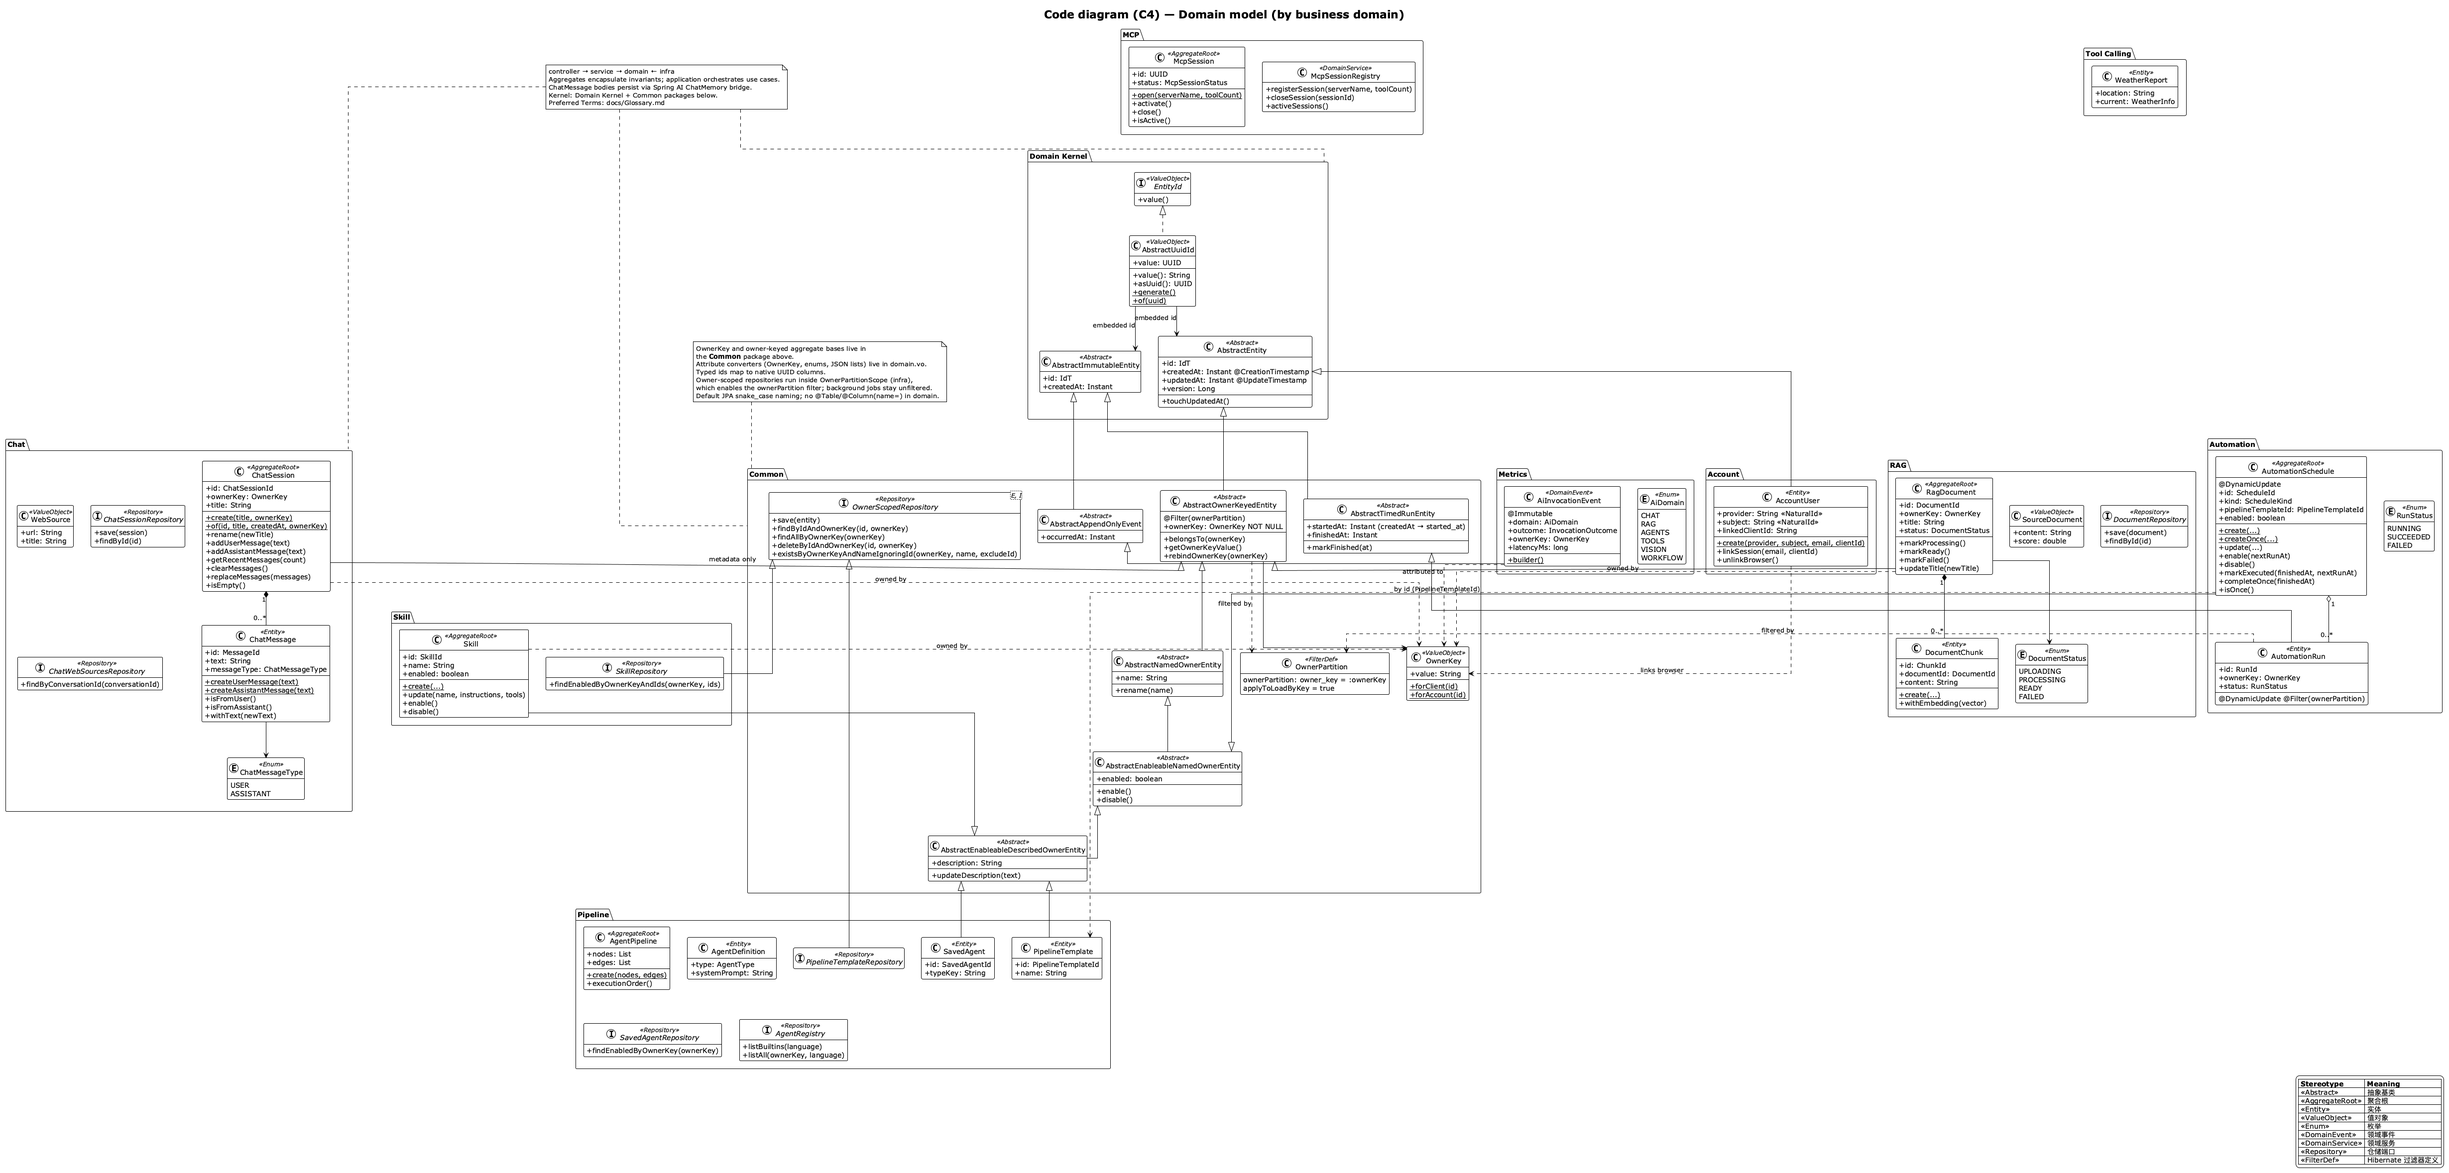
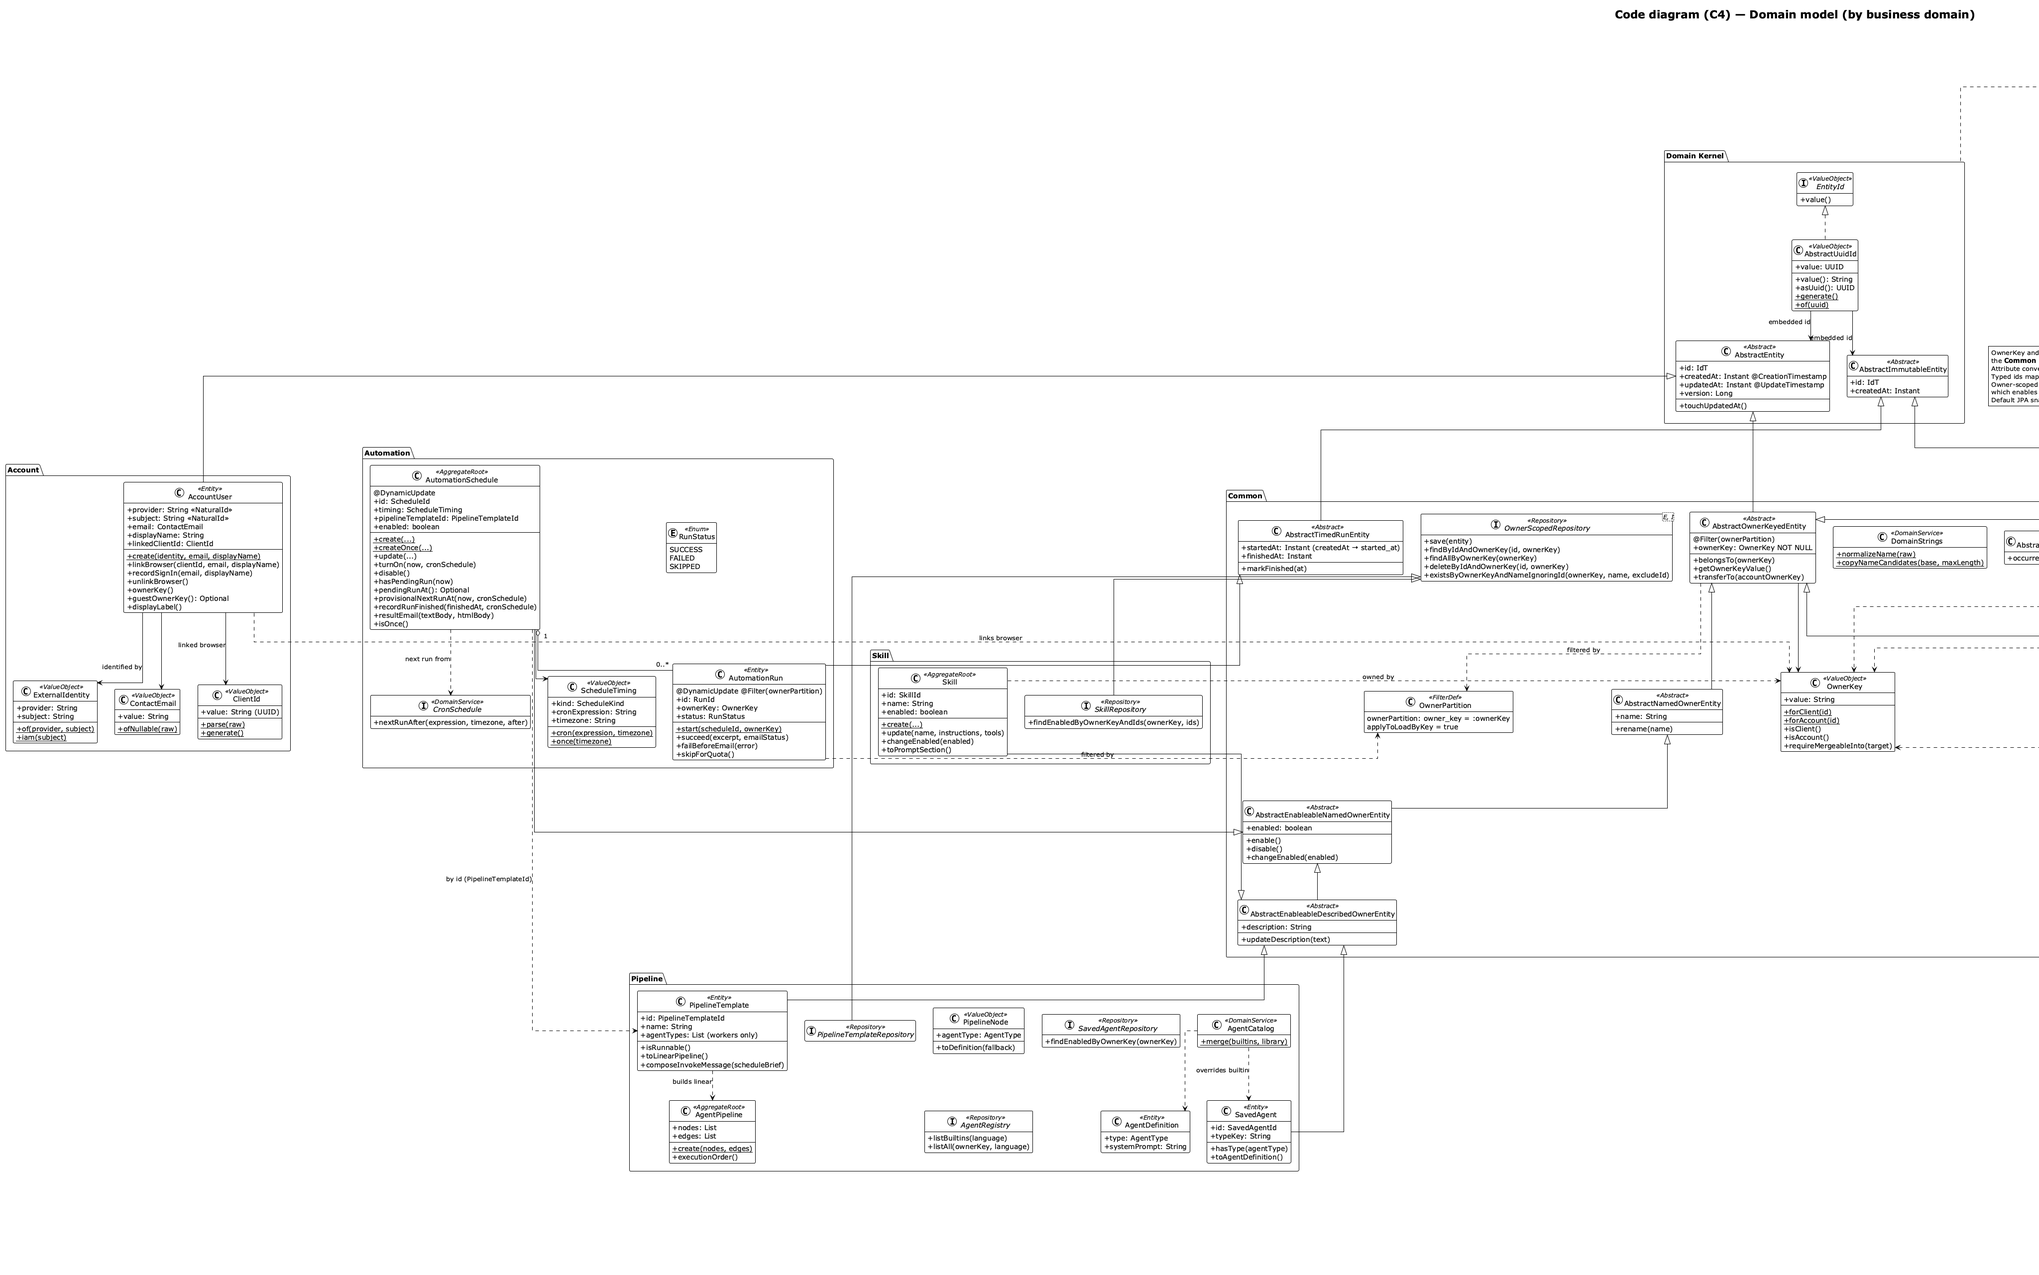
Describe the rich domain model before moving rules (#617)
Business rules for sessions, documents, schedules, accounts, quotas
and metrics are spread across services and adapters. The Glossary
and the domain model diagram now name the value objects and entity
methods that the following changes move those rules into, so code
and docs use the same words.

References:

- https://c4model.com/diagrams/code

diff --git a/ai/docs/Glossary.md b/ai/docs/Glossary.md
@@ -125,14 +125,14 @@ Shared persistence and aggregate bases. Feature modules inherit these types inst
 | Abstract Entity | 可变实体基类 | JPA `@MappedSuperclass` with id, audit timestamps, optimistic `@Version` | Mapped Superclass | `AbstractEntity<IdT>` | Subclasses call `touchUpdatedAt()` on mutation |
 | Abstract Immutable | 不可变记录基类 | Append-only rows: id + `created_at` only | Mapped Superclass | `AbstractImmutableEntity<IdT>` | Used for event streams |
 | Base JPA Config | JPA 内核配置 | `@EnableJpaAuditing`, repository scan | Configuration | `JpaRepositoriesConfig` | Replaces per-module duplicate JPA config |
-| Owner-Keyed Entity | 归属键实体基类 | Rows partitioned by `owner_key` | Mapped Superclass | `AbstractOwnerKeyedEntity<IdT>` | `belongsTo`, `getOwnerKeyValue`, `rebindOwnerKey` |
+| Owner-Keyed Entity | 归属键实体基类 | Rows partitioned by `owner_key` | Mapped Superclass | `AbstractOwnerKeyedEntity<IdT>` | `belongsTo`, `getOwnerKeyValue`, `transferTo` (guest `c:` → account `u:` only, via `OwnerKey.requireMergeableInto`) |
 | Owner Partition Filter | 归属分区过滤器 | Hibernate filter limiting queries and loads by id to one Owner Key | Persistence | `ownerPartition` (`OwnerPartition`), `OwnerPartitionScope` | Enabled per adapter call inside a transaction; background jobs stay unfiltered |
 | Named Owner Entity | 命名归属实体 | Owner-keyed row with validated `name` | Mapped Superclass | `AbstractNamedOwnerEntity<IdT>` | Max 120 chars via `DomainStrings` |
-| Enableable Entity | 可启用实体 | Named owner row with an `enabled` flag; the described variant adds `description` | Mapped Superclass | `AbstractEnableableNamedOwnerEntity<IdT>`, `AbstractEnableableDescribedOwnerEntity<IdT>` | `enable()` / `disable()`; schedules use the named variant |
+| Enableable Entity | 可启用实体 | Named owner row with an `enabled` flag; the described variant adds `description` | Mapped Superclass | `AbstractEnableableNamedOwnerEntity<IdT>`, `AbstractEnableableDescribedOwnerEntity<IdT>` | `enable()` / `disable()` / `changeEnabled(boolean)`; schedules use the named variant and re-arm through `turnOn` |
 | Timed Run Entity | 定时运行记录 | `started_at` / `finished_at` without `updated_at` | Mapped Superclass | `AbstractTimedRunEntity<IdT>` | Extends Abstract Immutable (`createdAt` → `started_at`); automation runs |
 | Append-Only Event | 追加事件 | Immutable AI invocation / audit event | Mapped Superclass | `AbstractAppendOnlyEvent<IdT>` | Maps `createdAt` → `occurred_at` |
 | Owner-Scoped Repository | 归属仓储契约 | Owner-scoped CRUD contract | Repository | `OwnerScopedRepository<E, I>` | `findByIdAndOwnerKey`, etc. |
-| Domain Strings | 域字符串校验 | Shared name/description normalization | Utility | `DomainStrings` | Replaces per-module copy-paste |
+| Domain Strings | 域字符串校验 | Shared name/description normalization and copy-name candidates | Utility | `DomainStrings` | `normalizeName` before uniqueness checks; `copyNameCandidates` stays within the 120-char limit |
 | Owner Keys | 归属键工具 | Parse and build `c:` / `u:` keys | Utility | `OwnerKeys` | Replaces duplicated `requireClientId` |
 
 **Layer packages (per feature module):** `controller` → `service` → `domain` ← `infra` (+ `mapper` when needed). Legacy names `web`, `application`, `infrastructure` are forbidden in new code.
@@ -145,16 +145,26 @@ Shared persistence and aggregate bases. Feature modules inherit these types inst
 | Preferred Term (English) | 中文   | Definition                                            | Type              | Code Mapping                                  | Notes                                  |
 | ------------------------ | ---- | ----------------------------------------------------- | ----------------- | --------------------------------------------- | -------------------------------------- |
 | Chat Session             | 会话   | Multi-turn conversation container between user and AI | Aggregate Root    | `ChatSession`                                 | Default title: "New Chat"; owned by Owner Key |
+| Session Title            | 会话标题 | Normalized session name: trimmed, whitespace collapsed, quotes stripped, max 100 chars | Value Object      | `SessionTitle`                                | `SessionTitle.DEFAULT` = "New Chat"; generated once after the first exchange |
+| Session Activity         | 会话活跃 | Last time a new exchange happened in the session        | Domain Behavior   | `ChatSession.recordExchange`, `isInactiveSince` | Restoring stored messages on read is not activity; drives Data Retention |
 | Client Identity          | 客户端身份 | Anonymous browser identity cookie used to resolve Owner Key | Technical         | `ClientIdentity`, `ea_cid` / `__Host-ea_cid` | Server-issued; not stored in localStorage |
 | Owner Key                | 数据归属键 | Hybrid partition key: guest `c:{clientId}` or account `u:{accountUserId}` | Value Object      | `OwnerKey`, column `owner_key` | Resolved by `CurrentOwnerResolver`; merged on OAuth login |
 | Unowned                  | 无主数据     | Owner Key `c:legacy-orphan` for rows without a visitor (e.g. session-less metrics) | Value Object      | `OwnerKey.UNOWNED` | Never matches a live visitor (cookie client ids are UUIDs); `owner_key` is NOT NULL everywhere |
 | Privacy Erasure          | 隐私清除 | Delete all durable rows for current Owner Key / rotate identity cookie | Use Case          | `OwnerErasureService`, `PrivacyController` | GDPR-style right to erasure across owner-scoped stores |
 | Privacy Consent          | 隐私同意 | Browser preference for optional analytics (RUM / LaunchDarkly) | Technical         | `PrivacyConsentService`, `explore-ai.privacy.consent` | Stored in localStorage; necessary Client Identity cookie is separate |
 | Data Retention           | 数据留存 | Timed purge of inactive sessions and aged metrics events | Job               | `ChatDataRetentionJob`, `app.data-retention` | Default 90d aligned with Client Identity cookie |
-| Plan Quota               | 套餐配额 | Daily hard limit on billable AI API calls for Free/Pro plan | Technical         | `billing.web.UsageQuotaFilter`, `app.billing` | Returns `429` / `QUOTA_EXCEEDED`; distinct from short-window rate limit |
+| Plan Quota               | 套餐配额 | Daily hard limit on billable AI API calls for Free/Pro plan | Technical         | `UsageQuotaFilter`, `DailyUsageQuotaService`, `app.billing` | Returns `429` / `QUOTA_EXCEEDED`; distinct from short-window rate limit |
+| Plan                     | 套餐   | Billing tier that sets the daily limit                   | Enum              | `Plan` (`FREE`, `PRO`)                       | Parsed once from config; unknown values fall back to `FREE` |
+| Quota Policy             | 配额策略 | Daily limits per owner, per IP and globally for a plan   | Value Object      | `QuotaPolicy`                                | IP limit is never below the plan limit; global limit 0 means off |
+| Daily Usage              | 当日用量 | Requests counted for one quota subject on one UTC day    | Value Object      | `DailyUsage`                                 | Resets when the day changes |
+| Quota Subject            | 配额对象 | Who a quota counter belongs to: an owner, an IP address, or everyone | Value Object | `QuotaSubject`                          | Distinct key prefixes so counters never collide |
+| Quota Decision           | 配额判定 | Outcome of one quota check: allowed, plan, limit, remaining | Value Object   | `QuotaDecision`                              | Single source for the `X-Quota-*` response headers |
 | Metrics Admin Key        | Metrics 管理密钥 | Shared secret protecting `/api/metrics/**` when configured | Technical         | `MetricsAdminAuthFilter`, `METRICS_ADMIN_API_KEY` | Header `X-Admin-Key`; empty key keeps local Metrics UI open |
 | Account Me               | 当前账号 | Viewer identity: anonymous Client Identity, OAuth Login session, or IAM Bearer JWT | Use Case          | `AccountController` `/api/account/me` | `mode=anonymous\|authenticated`; native clients may omit Client Identity cookie when `Authorization: Bearer` is present |
-| Account User             | 账号用户 | Persisted OAuth / IAM subject; browser sessions may link a Client Identity cookie | Entity            | `AccountUser`, `account_users` | Provider+subject unique; login merges `c:` rows into `u:{id}`; provider `explore-iam` for IAM tokens |
+| Account User             | 账号用户 | Persisted OAuth / IAM subject; browser sessions may link a Client Identity cookie | Entity            | `AccountUser`, `account_user` | Provider+subject unique; one account per browser; login merges `c:` rows into `u:{id}`; provider `explore-iam` for IAM tokens |
+| External Identity        | 外部身份 | Normalized sign-in provider + subject pair                | Value Object      | `ExternalIdentity`                           | Same normalization for save and lookup; `unknown` provider rejected |
+| Contact Email            | 联系邮箱 | Validated email address of an account                     | Value Object      | `ContactEmail`                               | Login handles go to `displayName`, never into email |
+| Client ID                | 客户端 ID | UUID carried by the Client Identity cookie                | Value Object      | `ClientId`                                   | Only server-issued UUIDs are accepted |
 | OAuth Login              | OAuth 登录 | Optional Google/GitHub/Explore IAM sign-in via Spring Security OAuth2 Client | Capability        | `/oauth2/authorization/{google\|github\|explore-iam}`, `/api/account/logout` | Guest mode remains default; no login wall |
 | IAM Bearer               | IAM 访问令牌 | Explore IAM access token accepted by the JWT resource server for native / API clients | Capability        | `Authorization: Bearer` + `app.oauth.explore-iam.issuer-uri` | Maps to Account User (`explore-iam` + `sub`); CSRF header not required |
 | IAM Module Scope         | IAM 模块范围 | GitHub-style OAuth scope on IAM access tokens gating AI modules when Bearer is present | Concept | `SCOPE_write:ai_chat` … `SCOPE_write:ai_tools` | Guests without JWT stay open; missing scope → 403 |
@@ -200,7 +210,9 @@ Shared persistence and aggregate bases. Feature modules inherit these types inst
 | Saved Agent              | 已保存 Agent     | Owner-saved agent definition in the agent library             | Entity         | `SavedAgent` (table `saved_agent`)                 | `/api/pipelines/agents`; formerly Saved Agent Definition |
 | Pipeline Service         | Pipeline 服务   | Application entry for list, invoke, supervisor, pipeline      | Application Service | `PipelineService`                             | Passes Owner Key + `lang`                       |
 | Automation Schedule      | 自动化日程        | Client-owned CRON or one-shot schedule + timezone + saved Pipeline Template + recipient email | Aggregate      | `AutomationSchedule`, `ScheduleKind` (`com.ai.automation`) | Due scan; `/api/automations/schedules`; ONCE auto-disables after run |
-| Automation Run           | 自动化运行记录     | One execution attempt with status and email outcome           | Entity         | `AutomationRun`                                    | SUCCESS / FAILED / SKIPPED                      |
+| Automation Run           | 自动化运行记录     | One execution attempt with status and email outcome           | Entity         | `AutomationRun`                                    | SUCCESS / FAILED / SKIPPED; finishes exactly once |
+| Schedule Timing          | 日程时间规则       | Schedule kind (CRON or ONCE) with cron expression and timezone | Value Object   | `ScheduleTiming`                                   | Timezone and cron validated on creation |
+| Cron Schedule            | Cron 计算         | Computes the next cron fire time in a timezone                | Domain Service | `CronSchedule` → `SpringCronSchedule`              | Keeps Spring out of the domain |
 | Email Gateway            | 邮件网关          | Outbound transactional email (Resend HTTP API; optional SMTP); HTML + plain text | Repository     | `EmailGateway` → `ResendEmailGateway` / `SmtpEmailGateway` / `LoggingEmailGateway`; `AutomationMailFormatter` | Prod: Resend (`APP_MAIL_*`); local default logs only |
 | Pipeline Orchestration   | 编排服务          | Runs Worker Agents according to a routing or pipeline plan    | Application Service | `PipelineOrchestrationService`                | Prefers node snapshot prompt/tools when present         |
 | Supervisor Router        | Supervisor 路由 | Chooses next Agent / subtasks for a user message              | Application    | `SupervisorRouter`, `SpringAiSupervisorRouter`     | Workers exclude supervisor               |
@@ -243,7 +255,9 @@ Shared persistence and aggregate bases. Feature modules inherit these types inst
 | Rag Document             | 文档       | User-uploaded knowledge source file (TXT/PDF)       | Entity               | `RagDocument` (table `rag_document`)      | Full lifecycle; prefix avoids clash with Spring AI `Document`       |
 | Document ID              | 文档标识     | Unique identifier of a document                     | Value Object         | `DocumentId`                              | —                                                                   |
 | Document Status          | 文档状态     | Processing state from upload to ready               | Enum                 | `DocumentStatus`                          | See state machine                                                   |
-| Document Chunk           | 文档分块     | Smallest retrieval unit after document splitting    | Entity               | `DocumentChunk`                           | Includes embedding vector                                           |
+| Document Chunk           | 文档分块     | Smallest retrieval unit after document splitting    | Entity               | `DocumentChunk`                           | Includes embedding vector and its document's Owner Key; created by `RagDocument.newChunk` |
+| Document Ingestion       | 文档导入     | Upload lifecycle: processing, then ready with a chunk count, or failed | Domain Behavior | `RagDocument.startIngestion`, `completeIngestion`, `failIngestion` | Empty files and documents without text are rejected; only READY documents are searchable |
+| Scored Chunk             | 评分分块     | Chunk paired with its similarity to the query       | Value Object         | `ScoredChunk`                             | Similarity computed once per chunk; `meets(threshold)` |
 | Raw Document             | 原始文档     | Normalized document view before ETL processing      | Value Object         | `RawDocument`                             | content + metadata + source                                         |
 | Chunking                 | 分块       | Process of splitting document text into chunks      | Application Behavior | `ChunkingDocumentTransformer`             | Spring AI `TokenTextSplitter`; configurable token size              |
 | Embedding                | 嵌入向量     | Vector representation of text for similarity search | Technical            | `OllamaTextEmbeddingGateway`                  | Ollama `qwen3-embedding:0.6b` (1024-d)                              |
@@ -424,6 +438,12 @@ Package: `com.ai.metrics`. Route `/metrics` (Work nav). API `/api/metrics`.
 | Metrics Series           | 指标时序    | Named time-bucketed metric series                                  | Application    | `SeriesSnapshot`               | `GET /api/metrics/series`                  |
 | Metrics Drill-down       | 指标下钻    | Filtered page of invocation events                                 | Application    | `DrilldownPage`                | `GET /api/metrics/drilldown`               |
 | AI Invocation Recorder   | AI 调用记录器 | Records invocation events without failing the business path        | Application    | `AiInvocationRecorder`         | Chat / RAG / Agents / Tools / Vision inject |
+| Latency                  | 耗时       | Elapsed milliseconds of an invocation, never negative              | Value Object   | `Latency.since(startNanos)`    | — |
+| Error Summary            | 错误摘要     | Error code plus a sanitized, length-capped message                 | Value Object   | `ErrorSummary.of(throwable)`   | Never stores raw prompt text |
+| Token Usage              | Token 用量  | Prompt and completion token counts                                 | Value Object   | `TokenUsage`                   | Rejects negative counts |
+| Invocation Stats         | 调用统计     | Request and error counts with derived error and success rates      | Value Object   | `InvocationStats`              | — |
+| Metrics Window           | 指标时间窗    | Time range such as `24h`, `7d`, `30d`                              | Value Object   | `MetricsWindow`                | Default `7d` |
+| Latency Stats            | 耗时统计     | Percentiles over sorted latencies                                  | Value Object   | `LatencyStats`                 | p50 / p95 |
 
 Shared BI vocabulary (Dashboard, KPI, Dimension, Drill-down, …): see **Appendix C**.
 
